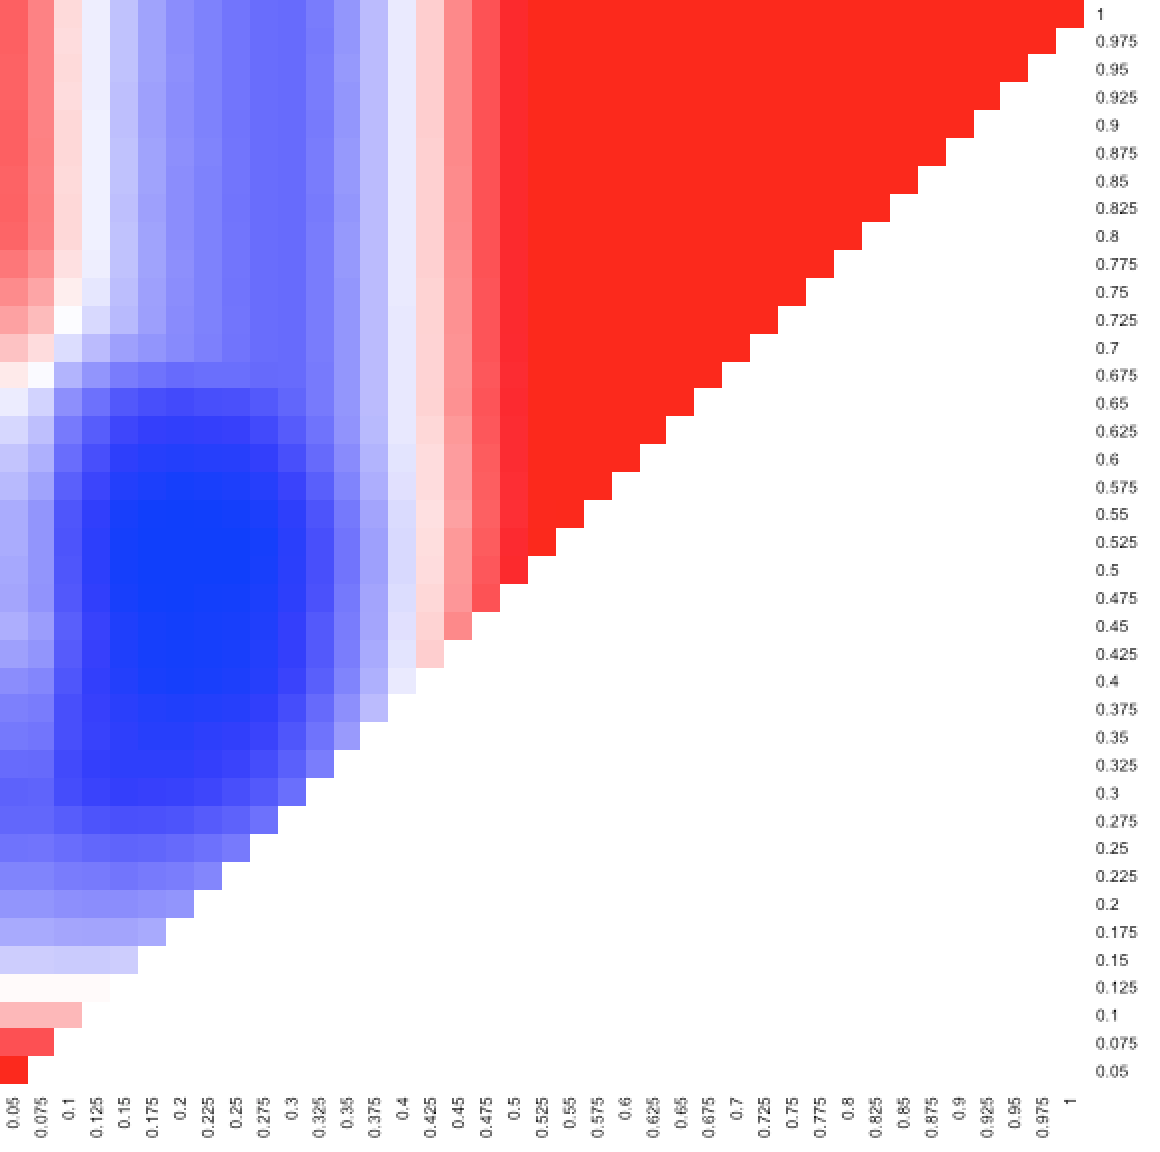
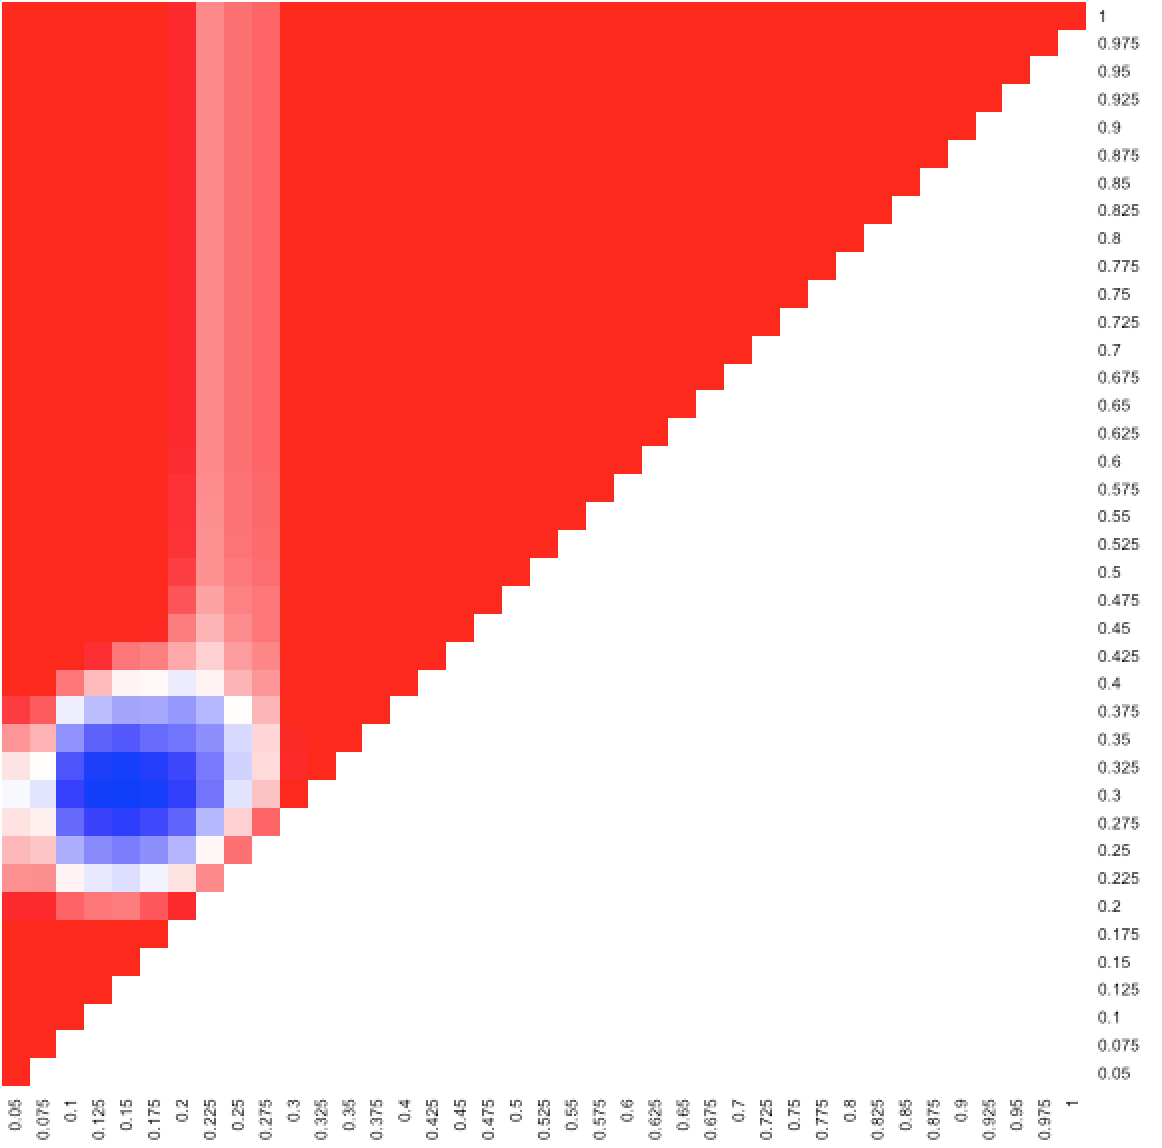
Changed variance in somatic mode

diff --git a/doc/somatic_CNA_analysis.md b/doc/somatic_CNA_analysis.md
@@ -146,6 +146,7 @@ Ellipsoid pattern means that there are at least 2 clones and 1 clone is not enou
 
 Rarely you may see other complex patterns, most often they happen when 2 clones is not enough. In this case you should look at the barplot in your results directory.
 
+![Heatmap of likelihood landscape][strange_pattern]
 
 When more than 2 clones are presented 2D heatmap representation becomes non relevant. You can check the full clonal structure at barplots.
 
@@ -216,6 +217,7 @@ Ask them at `german dot demidov at medizin dot uni-tuebingen dot de`. We are gla
 [stripe_high_clone]: https://github.com/imgag/ClinCNV/raw/master/doc/images/stripe_high_clone.png "Heatmap of likelihood landscape"
 [ellipsoid_low_clone]: https://github.com/imgag/ClinCNV/raw/master/doc/images/ellipsoid_low_clone.png "Heatmap of likelihood landscape"
 [ellipsoid_high_clone]: https://github.com/imgag/ClinCNV/raw/master/doc/images/ellipsoid_high_clone.png "Heatmap of likelihood landscape"
+[strange_pattern]: https://github.com/imgag/ClinCNV/raw/master/doc/images/strange_pattern.png "Heatmap of likelihood landscape"
 [barplot_one_clone]: https://github.com/imgag/ClinCNV/raw/master/doc/images/barplot_one_clone.png "Barplot of clonal landscape"
 [barplot_two_clone]: https://github.com/imgag/ClinCNV/raw/master/doc/images/barplot_two_clone.png "Barplot of clonal landscape"
 [barplot_multiple_clone]: https://github.com/imgag/ClinCNV/raw/master/doc/images/barplot_multiple_clone.png "Barplot of clonal landscape"
